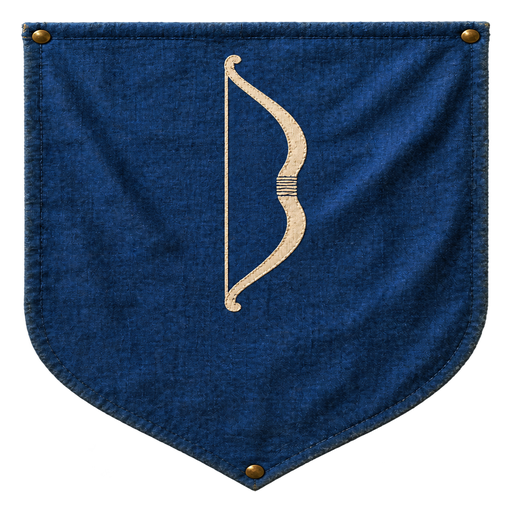
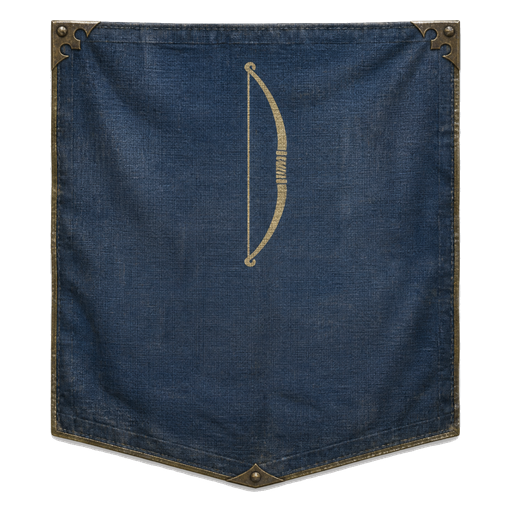
Rebuild Blue from the concept renders, and auto-tune the backdrop key
Blue now comes from the concept art in the assets root, taking the
nominated candidates for the four contested slots and the realistic
catapult for Heavy Archer. Normalized with --fit, since the set's aspect
spread is 0.151 and stretching would distort each banner differently.

Fixes a real bug in the keying while doing it. One fixed tolerance
cannot serve every faction: Yellow and Red sit on a noisy grey backdrop
that a tight tolerance cannot bridge, so the fill never propagates and
nothing is removed, while Blue sits on near-black and its own dark cloth
falls within a wide tolerance of it, so the fill crosses the edge and
hollows the banner out. At the old fixed 26 that cost Heavy Cavalry 56%
of its interior and Heavy Archer 25%. The tolerance is now chosen per
image, the widest that does not start eating the cloth, measured by how
much of the banner's own box comes back empty.

Art that runs to the canvas edge is reported rather than mangled: it has
no backdrop to remove, so it is kept opaque and named in the output.
Medium Cavalry and Heavy Cavalry are both full bleed, which is why they
cannot share a shape with their siblings.

Known regressions against the set this replaces, kept deliberately to
see it in game: the concepts are three presentations rather than one, so
the banners do not share a silhouette, and emblem contrast is lower
throughout, with Light Archer close to blank at board scale.

diff --git a/new/tools/prepare_faction_icons.py b/new/tools/prepare_faction_icons.py
@@ -32,6 +32,24 @@ from PIL import Image
 # take the crossbow for Medium Archer: the alternatives reduce to a faint
 # horizontal smudge, while the crossbow keeps a readable cross.
 PICKS = {
+    "blue": {
+        # Rebuilt from the concept renders in the assets root, which are a
+        # different artwork from the set Blue originally shipped: full-bleed,
+        # near square, with a heavy metal-bound border. That border is also a
+        # stronger Weight cue than the plain edge it replaces, which matters
+        # now that Weight is public on sight.
+        "li": "banner_blue_light_infantry_spear_cloth_poc_v2.png",
+        "mi": "banner_blue_medium_infantry_shield_spear_cloth_poc_v2.png",
+        "hi": "banner_blue_heavy_infantry_shield_spear_cloth_poc_v2.png",
+        "la": "banner_blue_light_archer_bow_cloth_poc_v2.png",
+        "ma": "banner_blue_medium_archer_crossbow_cloth_v3.png",
+        # Two candidates here; the realistic catapult is the newer one and the
+        # reason the set was rebuilt at all.
+        "ha": "banner_blue_heavy_archer_realistic_catapult_v3.png",
+        "lc": "banner_blue_light_cavalry_horse_cloth_poc_v2.png",
+        "mc": "banner_blue_medium_cavalry_lance_cloth_poc_v2.png",
+        "hc": "banner_blue_heavy_cavalry_armored_cloth_poc_v2.png",
+    },
     "yellow": {
         "li": "banner_yellow_light_infantry_quilted_linen_poc.png",
         "mi": "banner_yellow_medium_infantry_quilted_linen_poc.png",
@@ -59,10 +77,22 @@ PICKS = {
     },
 }
 
-TOLERANCE = 26
+# Tried in ascending order; the widest one that does not start eating the
+# banner wins. A single fixed value cannot serve every faction: Yellow and Red
+# sit on a noisy grey backdrop that a tight tolerance cannot bridge, so the fill
+# never propagates and nothing is removed, while Blue sits on near-black and its
+# own dark cloth falls within a wide tolerance of it, so the fill crosses the
+# edge and hollows the banner out. What separates them is not the backdrop but
+# how close the banner's own colour sits to it, which is only knowable per
+# image.
+TOLERANCES = (8, 12, 16, 20, 26, 32, 40)
+# A banner is a pentagon on a square canvas, so roughly an eighth of its own
+# box is legitimately empty below the point. Past this the fill has crossed
+# into the cloth.
+MAX_INTERIOR_HOLES = 0.16
 
 
-def key_exterior(image: Image.Image, tolerance: int = TOLERANCE) -> Image.Image:
+def key_exterior(image: Image.Image, tolerance: int) -> Image.Image:
     """Clear the flat backdrop, working inward from the border."""
     rgb = np.asarray(image.convert("RGB")).astype(np.int16)
     height, width, _ = rgb.shape
@@ -95,11 +125,44 @@ def key_exterior(image: Image.Image, tolerance: int = TOLERANCE) -> Image.Image:
     return Image.fromarray(out, "RGBA")
 
 
+def _interior_holes(keyed: Image.Image) -> tuple[float, tuple | None]:
+    """How much of the banner's own box was cleared, and that box."""
+    mask = keyed.getchannel("A").point(lambda v: 255 if v > 2 else 0)
+    box = mask.getbbox()
+    if box is None:
+        return 1.0, None
+    inner = np.asarray(mask.crop(box))
+    return float((inner == 0).sum()) / inner.size, box
+
+
+def key_best(image: Image.Image) -> tuple[Image.Image, int]:
+    """Key with the widest tolerance that leaves the banner intact."""
+    best = None
+    for tolerance in TOLERANCES:
+        keyed = key_exterior(image, tolerance)
+        holes, box = _interior_holes(keyed)
+        if box is None:
+            continue
+        removed = 1.0 - ((box[2] - box[0]) * (box[3] - box[1])) / (image.width * image.height)
+        # Nothing removed means the fill never propagated; too many holes means
+        # it propagated into the cloth. Only the ones in between are candidates.
+        if removed > 0.001 and holes <= MAX_INTERIOR_HOLES:
+            best = (keyed, tolerance)
+    if best is None:
+        # Full bleed: the banner runs to the canvas edge, so there is no
+        # backdrop to remove and the whole image is content. Returning it
+        # opaque is correct, but it also means this banner cannot share a
+        # shape with siblings that were photographed with a margin.
+        opaque = image.convert("RGBA")
+        opaque.putalpha(255)
+        return opaque, 0
+    return best
+
+
 def main() -> None:
     parser = argparse.ArgumentParser()
     parser.add_argument("--faction", required=True, choices=sorted(PICKS))
     parser.add_argument("--assets", default="assets")
-    parser.add_argument("--tolerance", type=int, default=TOLERANCE)
     args = parser.parse_args()
 
     assets = Path(args.assets)
@@ -107,12 +170,13 @@ def main() -> None:
     destination.mkdir(parents=True, exist_ok=True)
 
     aspects: list[float] = []
+    full_bleed: list[str] = []
     for code, filename in PICKS[args.faction].items():
         source = assets / filename
         if not source.exists():
             raise SystemExit(f"missing source art: {source}")
         with Image.open(source) as opened:
-            keyed = key_exterior(opened, args.tolerance)
+            keyed, tolerance = key_best(opened)
         box = keyed.getchannel("A").point(lambda v: 255 if v > 2 else 0).getbbox()
         if box is None:
             raise SystemExit(f"{filename}: keying removed the whole image")
@@ -123,16 +187,24 @@ def main() -> None:
         corners = [alpha.getpixel(p) for p in
                    ((3, 3), (keyed.width - 4, 3), (3, keyed.height - 4),
                     (keyed.width - 4, keyed.height - 4))]
-        if any(value > 2 for value in corners):
+        if tolerance == 0:
+            # Full bleed, flagged rather than rejected: opaque corners are
+            # correct here, but this banner has no margin of its own and so
+            # cannot register against siblings that do.
+            full_bleed.append(code)
+        elif any(value > 2 for value in corners):
             raise SystemExit(f"{filename}: exterior not removed, corner alpha {corners}")
         aspects.append((box[2] - box[0]) / (box[3] - box[1]))
         keyed.save(destination / f"{code}.png")
-        print(f"{args.faction}/{code}.png  <- {filename}")
+        holes, _ = _interior_holes(keyed)
+        print(f"{args.faction}/{code}.png  <- {filename}  (tol {tolerance}, holes {holes:.0%})")
 
     # The normalizer stretches every banner into one shared registration box, so
     # sources that disagree about their own proportions each get a different
     # distortion and the set stops looking like a set. Green, already approved,
     # spans 0.085, so that is the working tolerance.
+    if full_bleed:
+        print(f"  NOTE: full bleed, no margin of their own: {', '.join(full_bleed)}")
     spread = max(aspects) - min(aspects)
     print(f"aspect spread {spread:.3f} across {len(aspects)} banners")
     if spread > 0.09:
